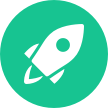
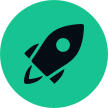
Assests edit for theming

Changed region(s): [[0.2222, 0.2222, 0.7778, 0.7778]]

diff --git a/App/components/ThemeWrapper/assets.js b/App/components/ThemeWrapper/assets.js
@@ -18,6 +18,7 @@ const REPORT = require('../../../assets/themes/light/report-post/report-post.png
 const BLOCK = require('../../../assets/themes/light/block-user/block-user.png');
 const DELETE = require('../../../assets/themes/light/delete/trash.png');
 const PLUS_BOX = require('../../../assets/themes/light/plus-box/plus-box.png');
+const TILT_ROCKET = require('../../../assets/themes/light/tilt_rocket/tiltRoceket.png');
 
 //DARK ASSETS
 const LOGO_DARK = require('../../../assets/themes/dark/logo/logo-sign-up-dark.png');
@@ -39,6 +40,7 @@ const REPORT_DARK = require('../../../assets/themes/dark/report-post/report-post
 const BLOCK_DARK = require('../../../assets/themes/dark/block-user/block-user.png');
 const DELETE_DARK = require('../../../assets/themes/dark/delete/trash.png');
 const PLUS_BOX_DARK = require('../../../assets/themes/dark/plus-box/plus-box.png');
+const TILT_ROCKET_DARK = require('../../../assets/themes/dark/tilt_rocket/tiltRoceket.png');
 
 const assets = {
   light: {
@@ -61,6 +63,7 @@ const assets = {
     BLOCK,
     DELETE,
     PLUS_BOX,
+    TILT_ROCKET,
   },
   dark: {
     LOGO: LOGO_DARK,
@@ -82,6 +85,7 @@ const assets = {
     BLOCK: BLOCK_DARK,
     DELETE: DELETE_DARK,
     PLUS_BOX: PLUS_BOX_DARK,
+    TILT_ROCKET: TILT_ROCKET_DARK,
   },
 };
 

diff --git a/App/Screens/PublicChat.js b/App/Screens/PublicChat.js
@@ -11,6 +11,7 @@ import Discover from '../components/Discover';
 import SearchBar from '../components/SearchBar';
 import PublicSearch from '../components/PublicSearch';
 import {headerForScreenWithTabs} from '../config/navigationHeaderStyle';
+import assets from '../components/ThemeWrapper/assets';
 
 const TILT_ROCKET = require('../../assets/themes/light/tilt_rocket/tiltRoceket.png');
 
@@ -88,7 +89,7 @@ class PublicChat extends React.Component {
       <TouchableOpacity
         style={{paddingHorizontal: 15}}
         onPress={() => navigation.navigate('CreateChannel')}>
-        <Image source={TILT_ROCKET} />
+        <Image source={assets[screenProps.themeName].TILT_ROCKET} />
       </TouchableOpacity>
     ),
   });
@@ -188,7 +189,10 @@ class PublicChat extends React.Component {
   }
 }
 
-const mapStateToProps = ({themes}) => ({theme: themes[themes.current]});
+const mapStateToProps = ({themes}) => ({
+  theme: themes[themes.current],
+  themeName: themes.current,
+});
 
 const mapDispatchToProps = {
   searchChannels,

diff --git a/App/Screens/AdvancedSearch.js b/App/Screens/AdvancedSearch.js
@@ -59,7 +59,7 @@ export class AdvancedSearch extends Component {
     });
   };
 
-  static navigationOptions = ({navigation, screenProps, theme}) => ({
+  static navigationOptions = ({navigation, screenProps}) => ({
     headerLeft: (
       <SearchBar
         handleRef={navigation.getParam('refInput', null)}
@@ -97,7 +97,7 @@ export class AdvancedSearch extends Component {
         <Text
           // eslint-disable-next-line react-native/no-inline-styles
           style={{
-            color: theme.primaryTextColor,
+            color: screenProps.theme.primaryTextColor,
             fontSize: 16,
             letterSpacing: 0.1,
             fontFamily: 'SFProDisplay-Medium',
